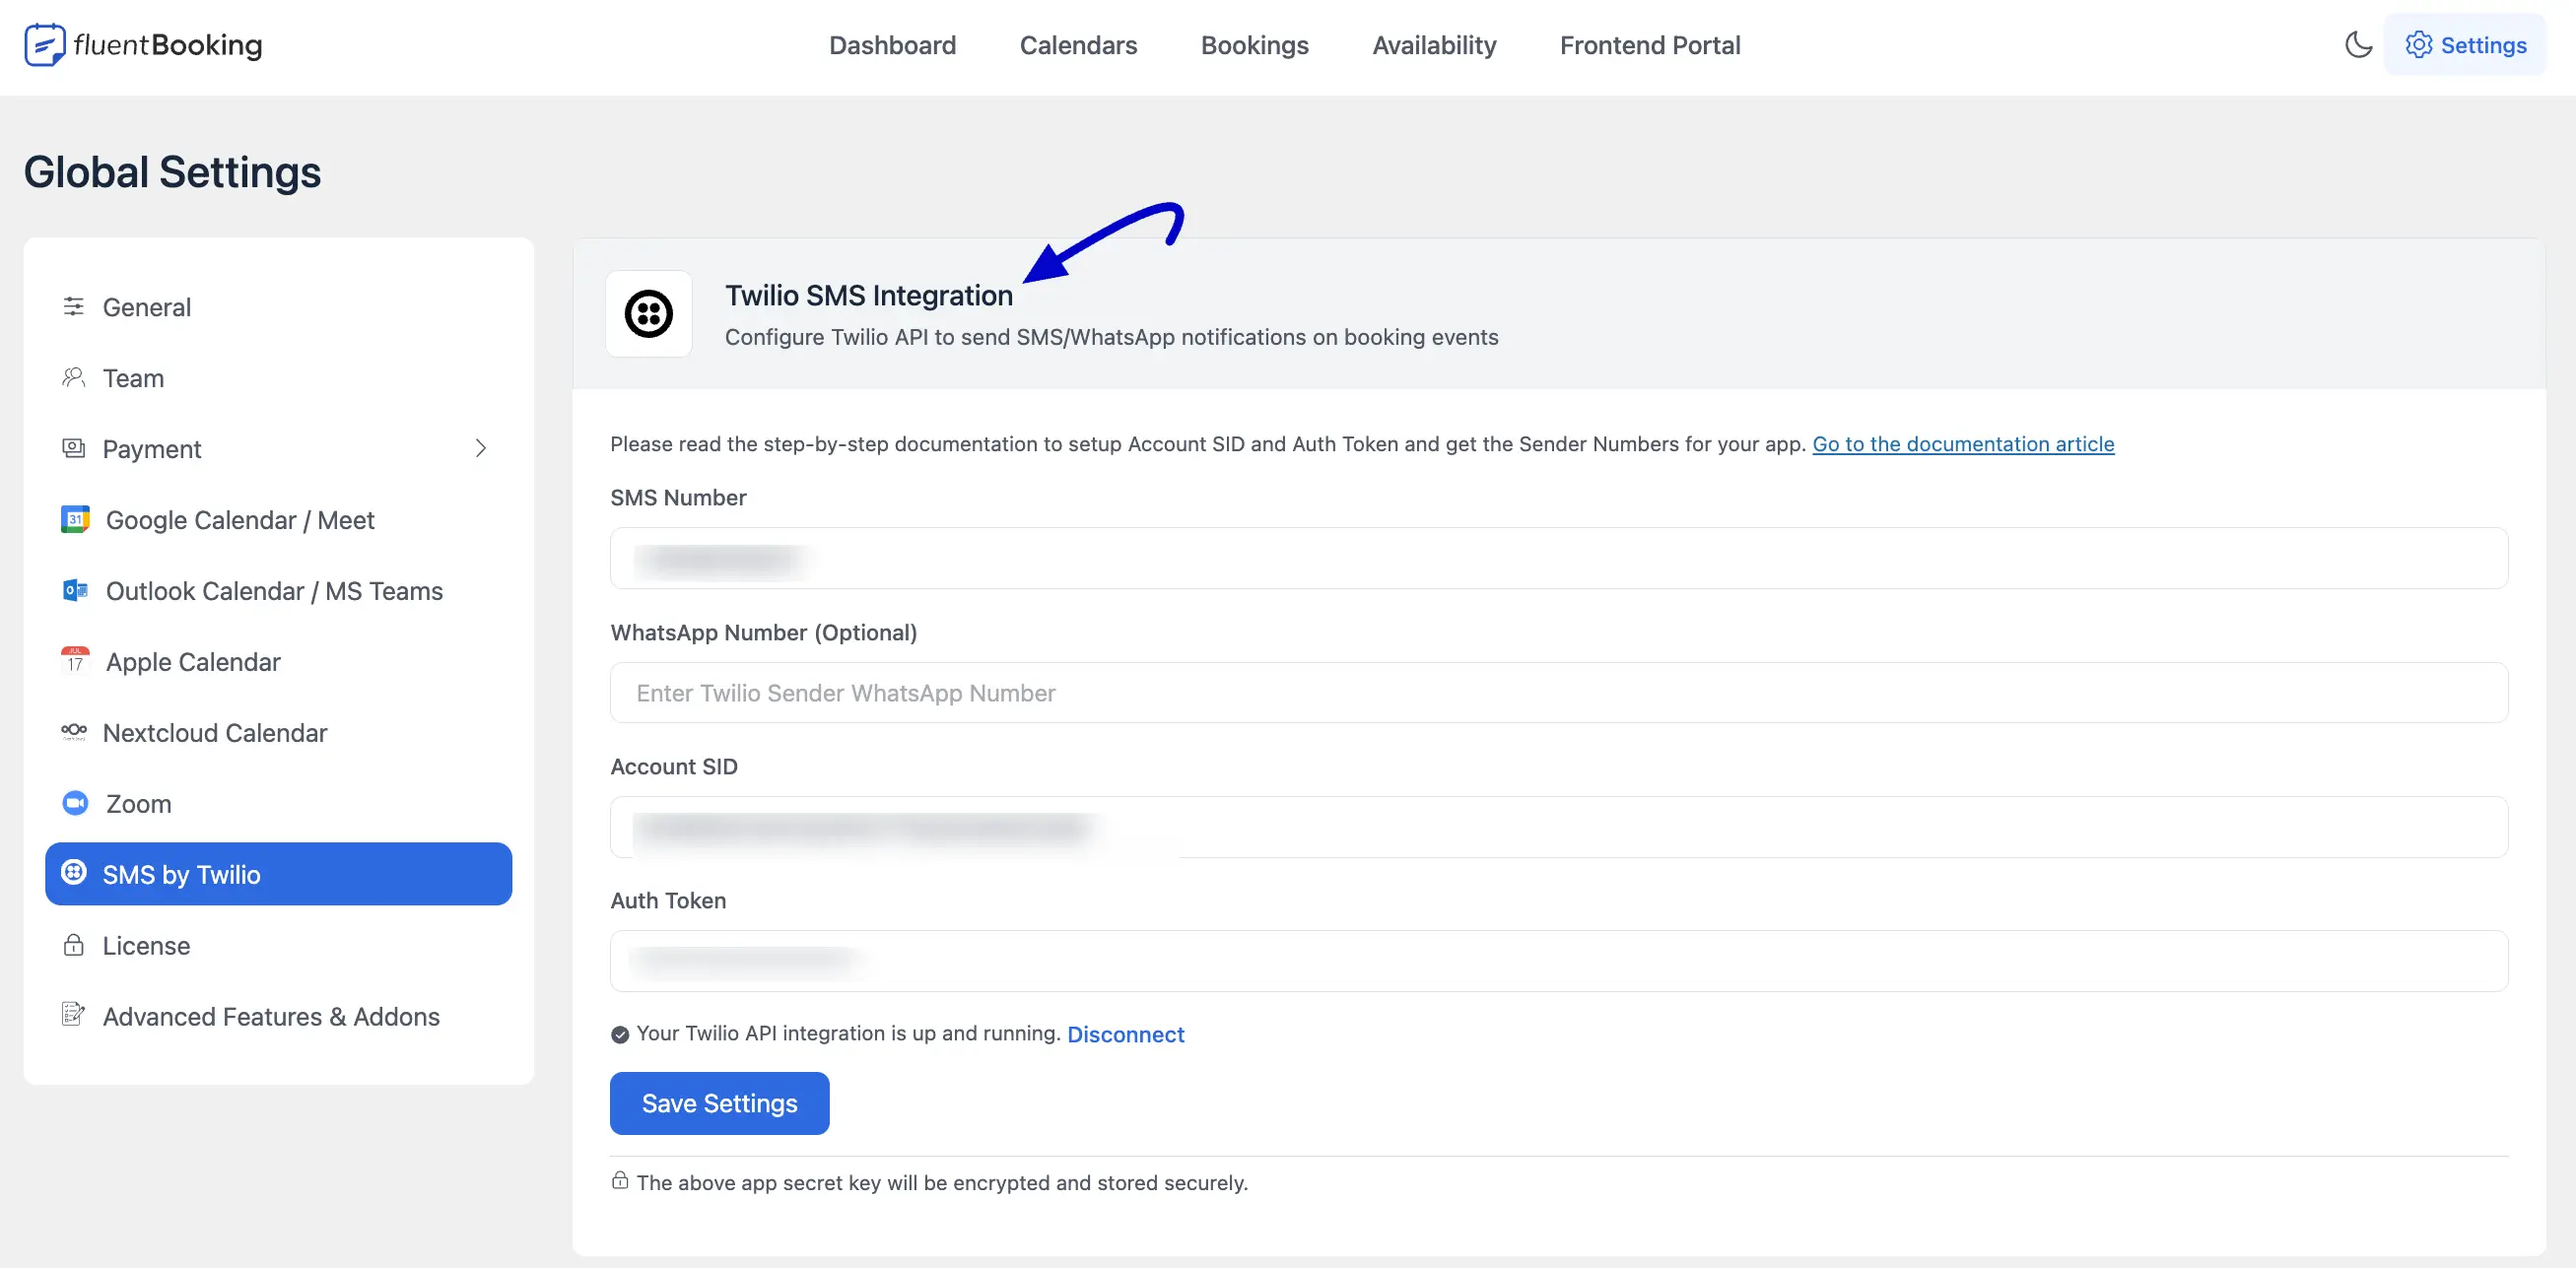
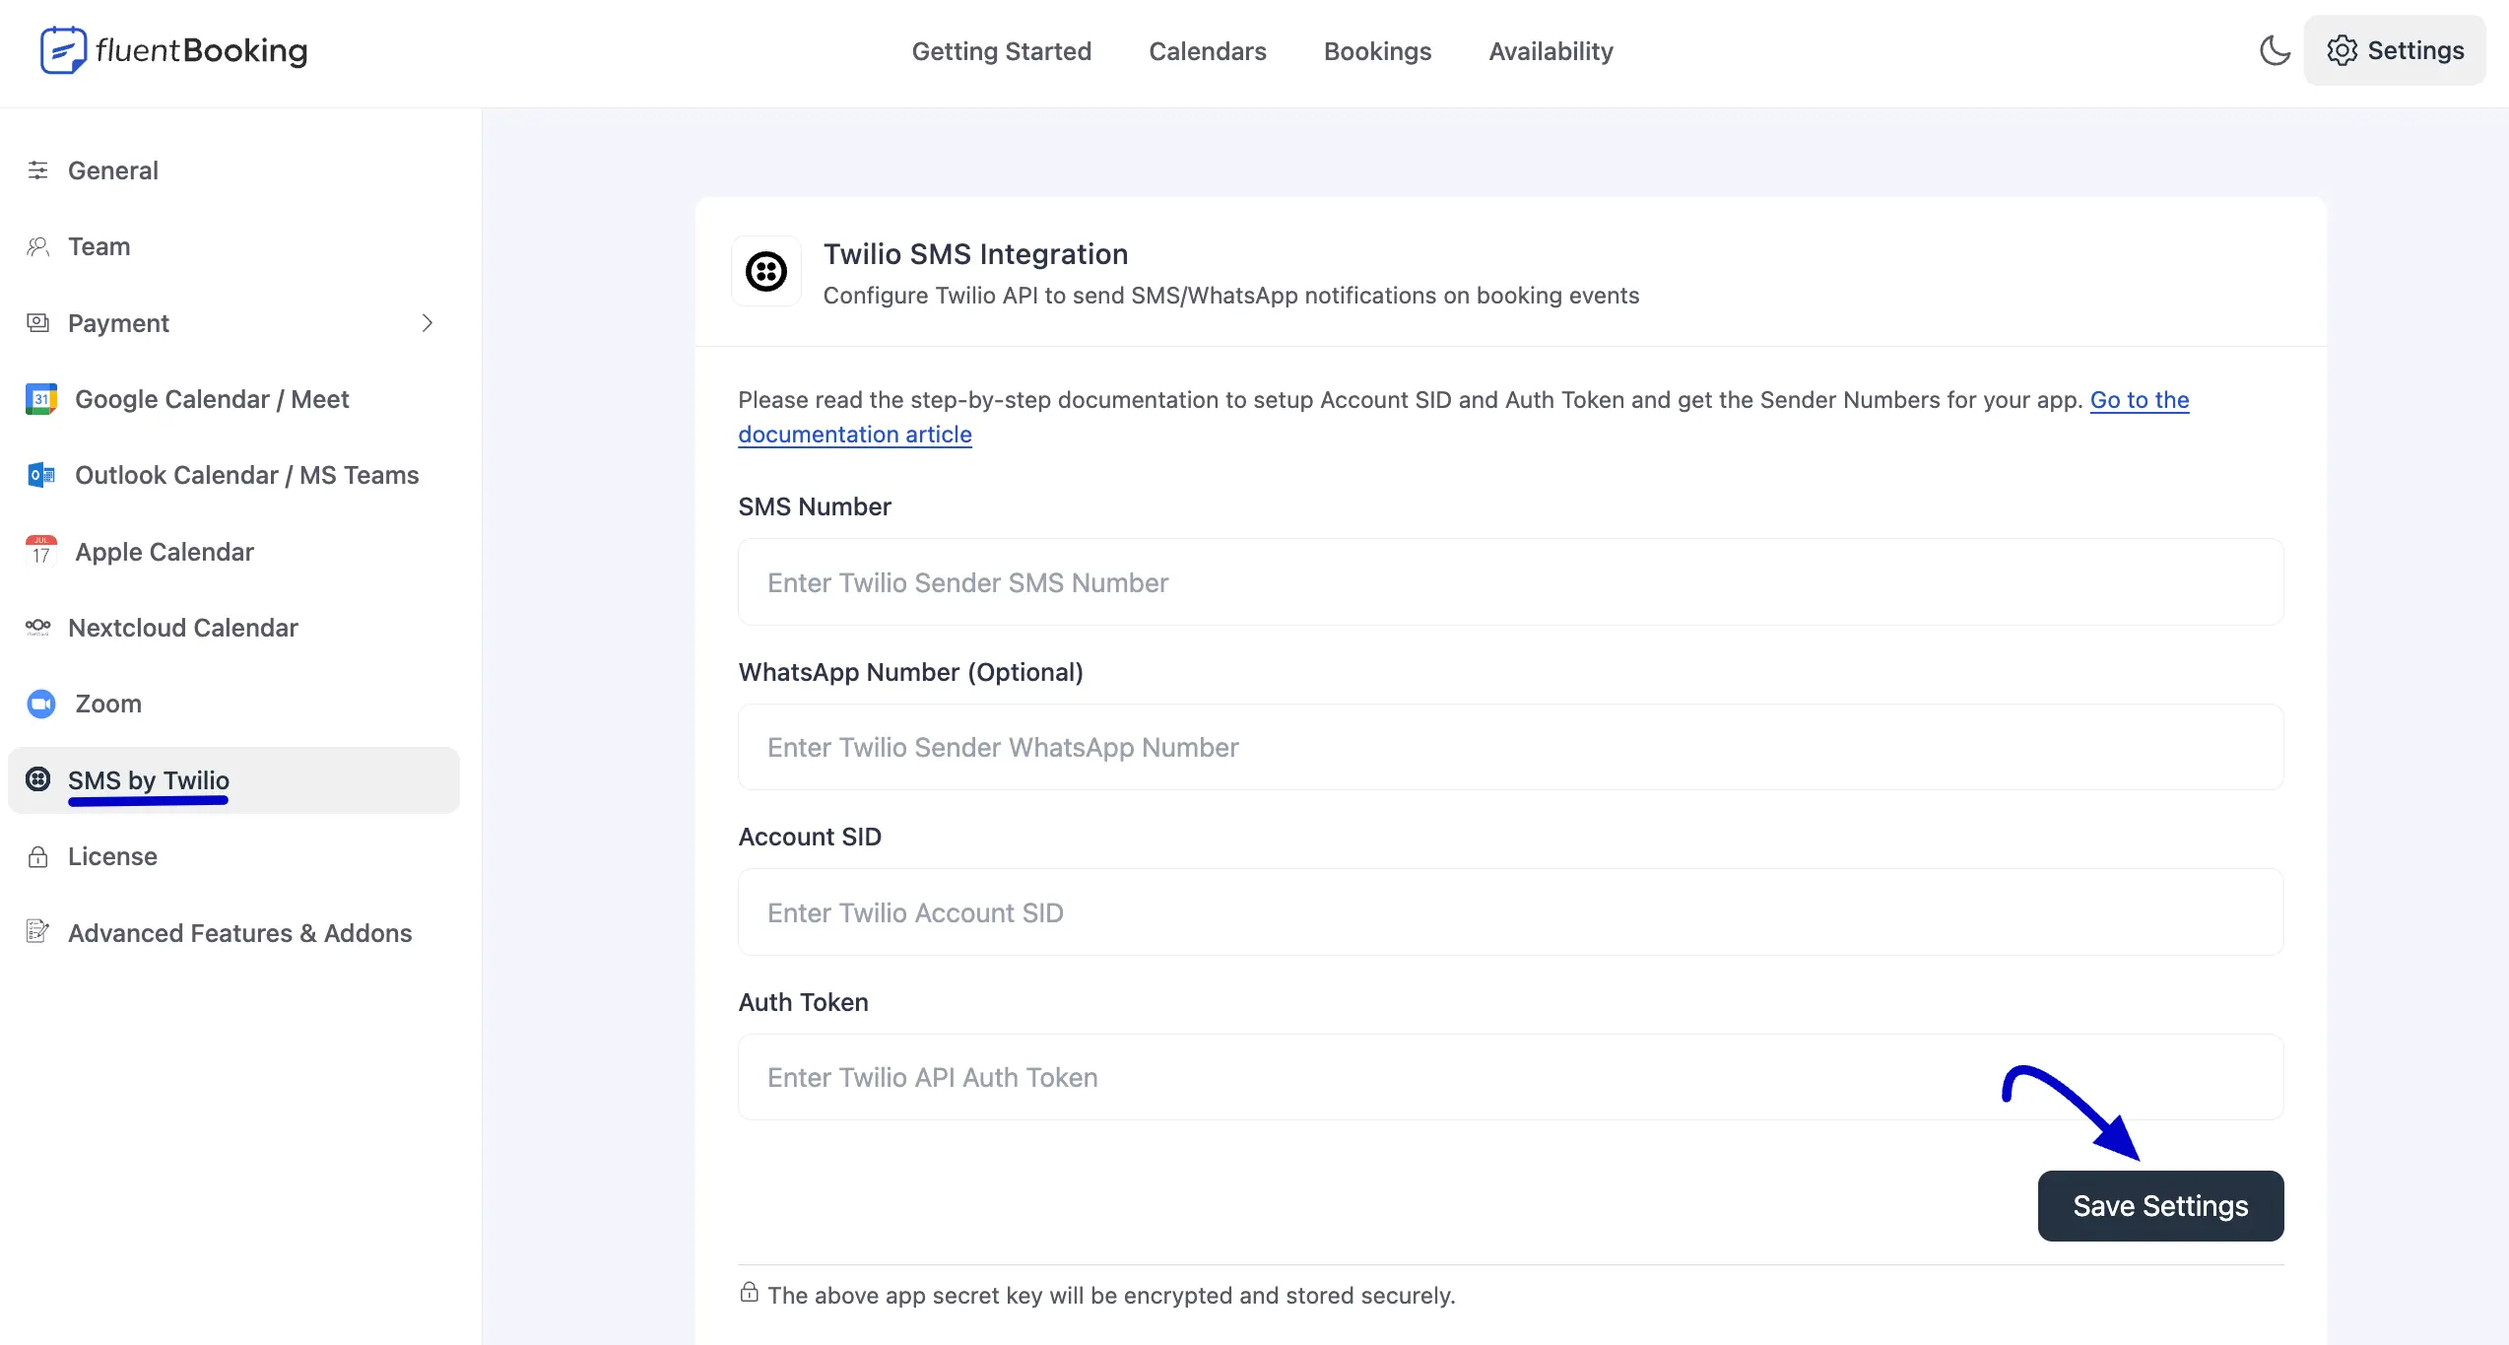
update Twilio/SMS/WhatsApp Integration with FluentBooking

diff --git a/docs/integrations/twilio-integration-with-fluentbooking.md b/docs/integrations/twilio-integration-with-fluentbooking.md
@@ -10,6 +10,7 @@ description: Send booking notifications via SMS and WhatsApp with Twilio. Connec
 
 This guide explains how to integrate **Twilio with FluentBooking** to send event notifications via SMS and WhatsApp.
 
+> [!Note]
 > The Twilio SMS/WhatsApp integration is only available in FluentBooking Pro. You will need the [FluentBooking Pro](https://fluentbooking.com/pricing/) plugin to access this feature.
 
 ::: tip Important
@@ -40,7 +41,9 @@ On your Twilio account's homepage, you will find the Twilio Number and the crede
 ![Twilio Credentials](/images/integrations/twilio-integration-with-fluentbooking/credential-1.webp)
 
 
-**Paste** the copied credentials into the designated fields on the FluentBooking Twilio configuration page. Afterward, click the **Save Settings** button to store this information.
+**Paste** the copied credentials into the designated fields **SMS Number**, **WhatsApp Number (Optional)**, **Account SID**, and **Auth Token** on the FluentBooking Twilio configuration page. 
+
+Afterward, click the **Save Settings** button to store this information. Once saved, you will see a confirmation message that your Twilio API integration is up and running.
 
 ![Twilio Credentials](/images/integrations/twilio-integration-with-fluentbooking/credential-2.webp)
 

diff --git a/docs/integrations/fluentboards-integration-with-fluentbooking.md b/docs/integrations/fluentboards-integration-with-fluentbooking.md
@@ -7,6 +7,7 @@ description: Create FluentBoards tasks from or before bookings. Integrate task m
 
 [FluentBoards](https://wordpress.org/plugins/fluent-boards/) integrates with FluentBooking, allowing you to create a task before booking any event. Install and activate the FluentBoards plugin. Follow the simple step-by-step process to integrate FluentBoards with FluentBooking.
 
+> [!Note]
 > The FluentBoards integration is only available in FluentBooking Pro. You will need the [FluentBooking Pro](https://fluentbooking.com/pricing/) plugin to access this feature.
 
 ::: tip Important

diff --git a/docs/integrations/woocommerce-integration-with-fluentbooking.md b/docs/integrations/woocommerce-integration-with-fluentbooking.md
@@ -7,6 +7,7 @@ description: Link bookings to WooCommerce products and use WooCommerce checkout.
 
 FluentBooking Integrate with WooCommerce to create a booking with your WooCommerce product and you can use the Payment method of WooCommerce in FluentBooking. If you want to create any booking event with your WooCommerce Product just follow the simple steps of this guide.
 
+> [!Note]
 > The WooCommerce integration is only available in FluentBooking Pro. You will need the [FluentBooking Pro](https://fluentbooking.com/pricing/) plugin to access this feature.
 
 ::: tip Important

diff --git a/docs/integrations/fluent-form-integration-with-fluentbooking.md b/docs/integrations/fluent-form-integration-with-fluentbooking.md
@@ -7,6 +7,7 @@ description: Add FluentBooking events to your Fluent Forms. Embed booking select
 
 FluentBooking integrates smoothly with Fluent Forms, allowing you to add booking events directly to your forms. This allows users to schedule appointments while submitting a form, making the process simple and convenient.
 
+> [!Note]
 > The Fluent Forms integration is only available in FluentBooking Pro. You will need the [FluentBooking Pro](https://fluentbooking.com/pricing/) plugin to access this feature.
 
 ::: tip Important

diff --git a/docs/integrations/fluentcart-integration-with-fluentbooking.md b/docs/integrations/fluentcart-integration-with-fluentbooking.md
@@ -9,6 +9,7 @@ description: Sell consultations and services via FluentCart. Use FluentCart chec
 
 This keeps your sales and appointments within a single, seamless ecosystem without needing extra plugins.Follow these steps to connect FluentCart with your booking events:
 
+> [!Note]
 > The FluentCart integration is only available in FluentBooking Pro. You will need the [FluentBooking Pro](https://fluentbooking.com/pricing/) plugin to access this feature.
 
 ::: tip Important
